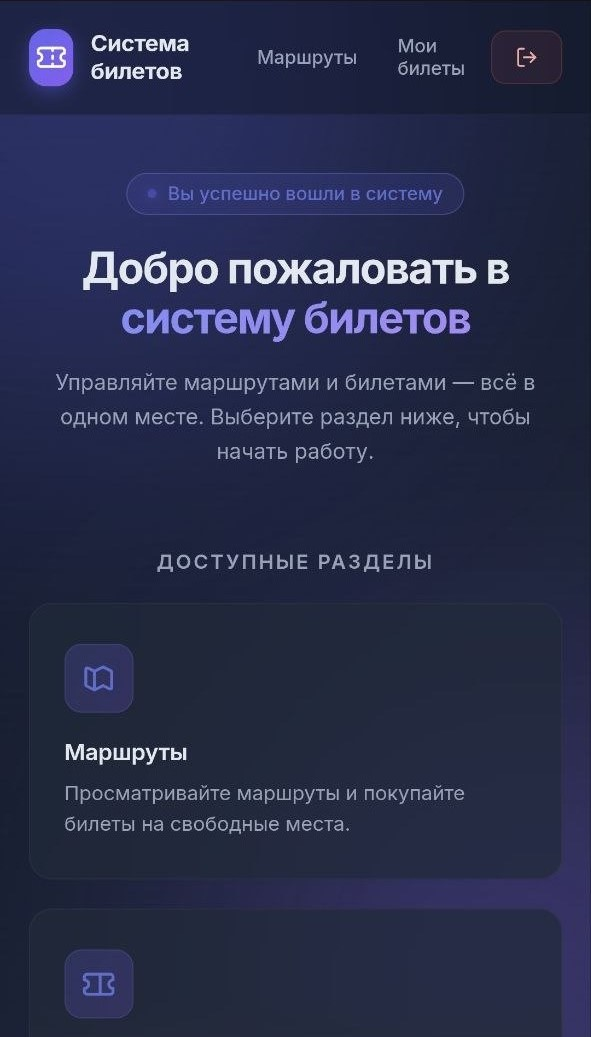
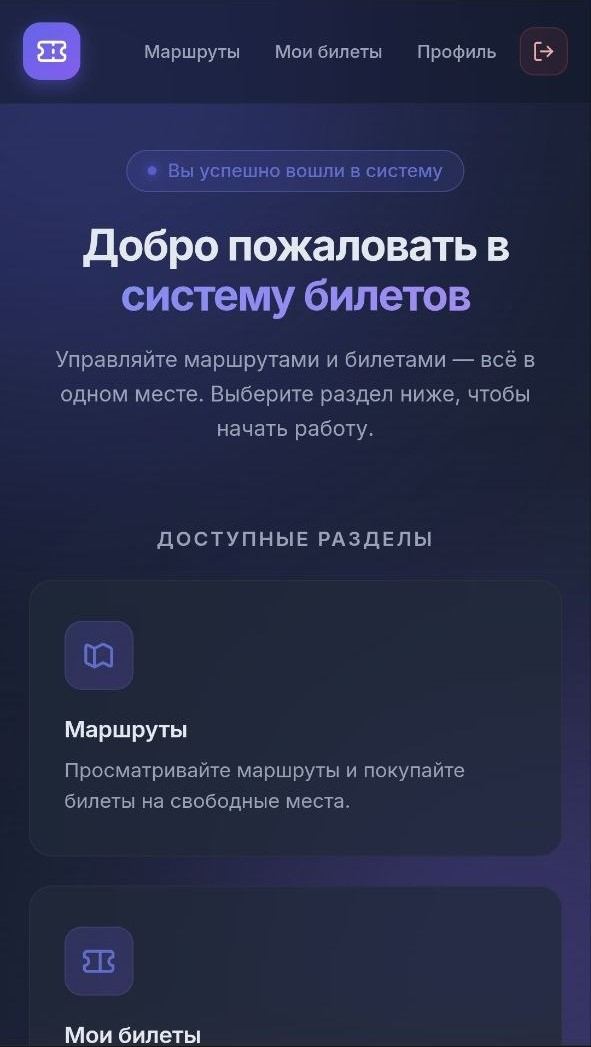
amend screenshots

diff --git a/README.md b/README.md
@@ -18,31 +18,43 @@
 <table>
   <tr>
     <td style="text-align: center; width: 50%;">
-      <img src="docs/images/desktop-01-home.png" alt="Главная"/>
-      <br/><b>Главная</b>
+      <img src="docs/images/desktop-01-login.png" alt="Вход"/>
+      <br/><b>Вход</b>
     </td>
     <td style="text-align: center; width: 50%;">
-      <img src="docs/images/desktop-02-routes.png" alt="Маршруты"/>
-      <br/><b>Маршруты с поиском</b>
+      <img src="docs/images/desktop-02-home.png" alt="Главная"/>
+      <br/><b>Главная</b>
     </td>
   </tr>
   <tr>
     <td style="text-align: center; width: 50%;">
-      <img src="docs/images/desktop-03-details.png" alt="Покупка"/>
-      <br/><b>Выбор места</b>
+      <img src="docs/images/desktop-03-routes-list.png" alt="Маршруты"/>
+      <br/><b>Маршруты с поиском</b>
     </td>
     <td style="text-align: center; width: 50%;">
-      <img src="docs/images/desktop-04-my-tickets.png" alt="Мои билеты"/>
+      <img src="docs/images/desktop-04-route.png" alt="Маршрут с билетами"/>
+      <br/><b>Маршрут с билетами</b>
+    </td>
+  </tr>
+  <tr>
+    <td style="text-align: center; width: 50%;">
+      <img src="docs/images/desktop-05-my-tickets.png" alt="Мои билеты"/>
       <br/><b>Мои билеты</b>
+    </td>
+    <td style="text-align: center; width: 50%;">
+      <img src="docs/images/desktop-06-profile.png" alt="Профиль"/>
+      <br/><b>Профиль</b>
     </td>
   </tr>
 </table>
 
 <p style="text-align: center;">
   <b>📱 Мобильная версия</b><br/>
-  <img src="docs/images/mobile-01-home.png" width="180" alt="Мобильная главная"/>
-  <img src="docs/images/mobile-02-routes.png" width="180" alt="Мобильные маршруты"/>
-  <img src="docs/images/mobile-03-my-tickets.png" width="180" alt="Мобильные билеты"/>
+  <img src="docs/images/mobile-01-home.png" width="180" alt="Главная страница, мобильная версия"/>
+  <img src="docs/images/mobile-02-routes-list.png" width="180" alt="Список маршрутов, мобильная версия"/>
+  <img src="docs/images/mobile-03-route.png" width="180" alt="Детали маршрута, мобильная версия"/>
+  <img src="docs/images/mobile-04-my-tickets.png" width="180" alt="Мои билеты, мобильная версия"/>
+  <img src="docs/images/mobile-05-profile.png" width="180" alt="Профиль, мобильная версия"/>
 </p>
 
 ## 📦 Модули проекта
